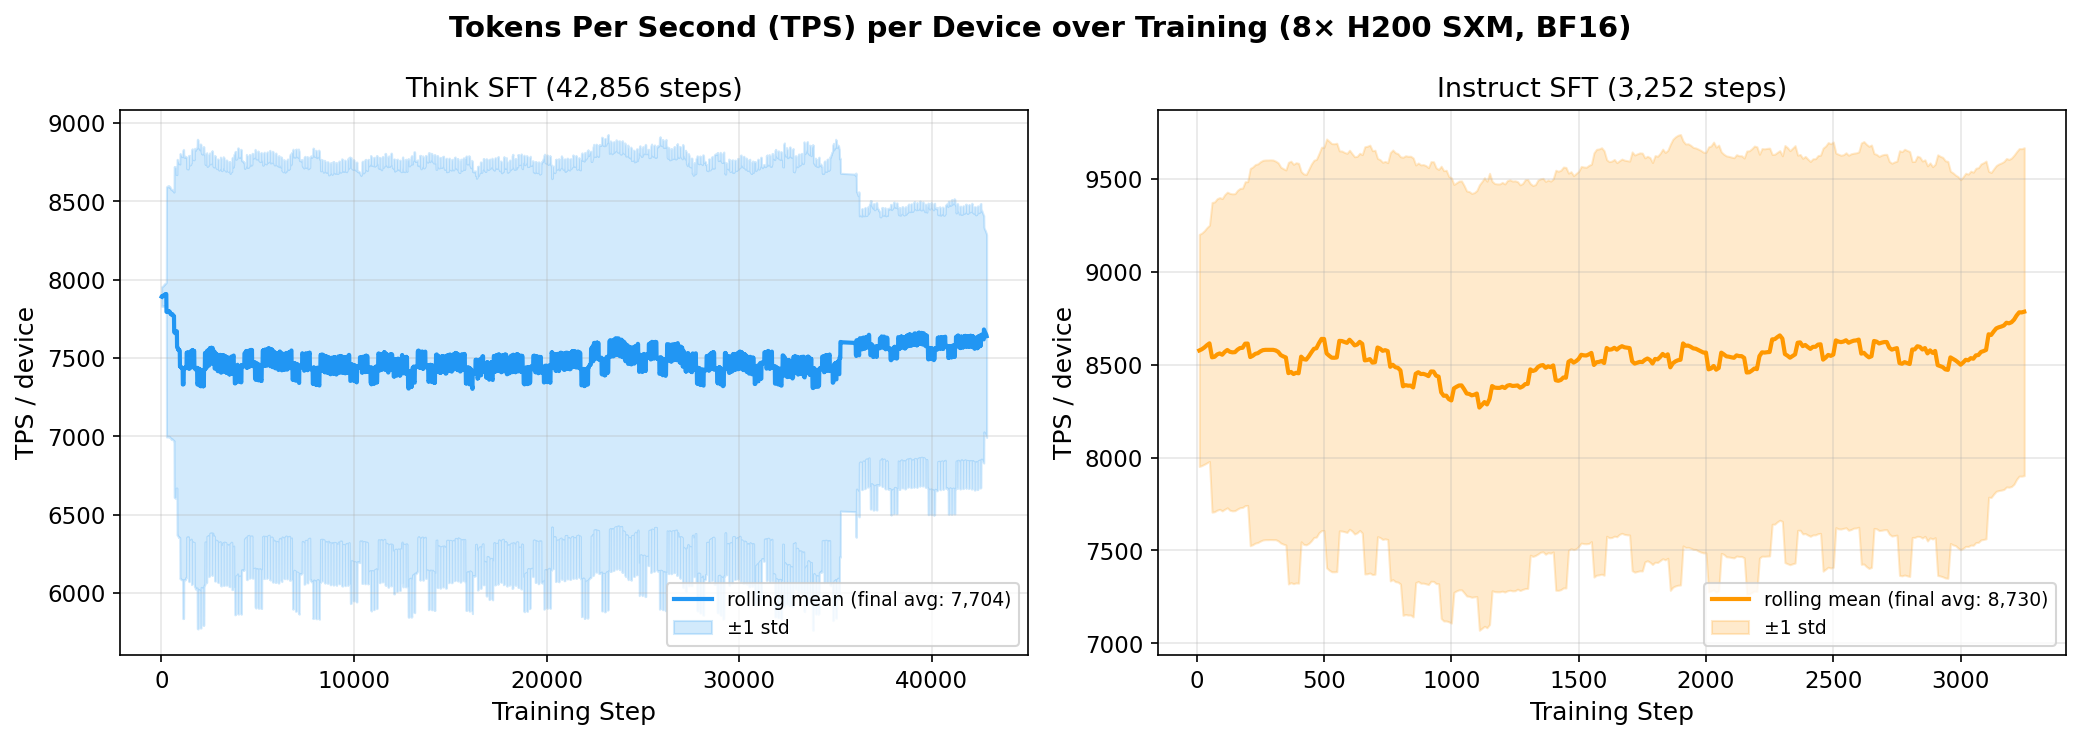
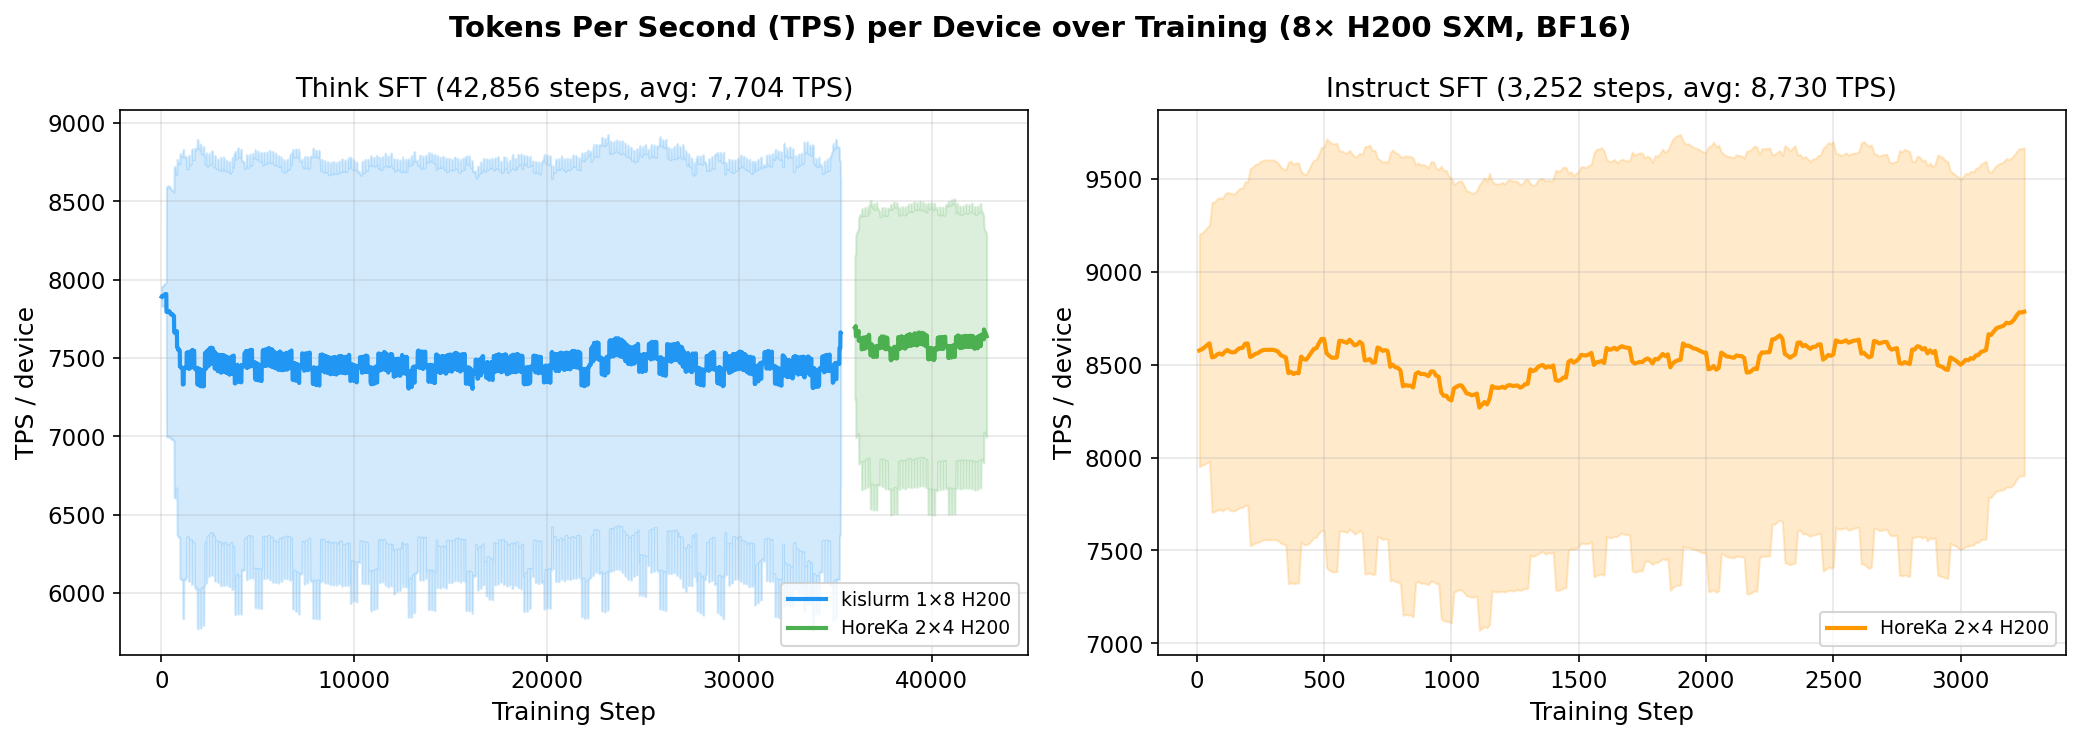
Color-code kislurm vs HoreKa segments in Think throughput plots
Think SFT plot now shows blue (kislurm 1×8 H200, steps 0-35K) and
green (HoreKa 2×4 H200, steps 36K-42.8K) to visualize the cluster
transition mid-training.

diff --git a/oellm/experiments/baseline_repro/scripts/plot_throughput.py b/oellm/experiments/baseline_repro/scripts/plot_throughput.py
@@ -256,25 +256,55 @@ def main():
         std = windows.std(axis=1)
         return mean, std
 
+    # Split Think v2 into kislurm and HoreKa segments for color-coding
+    # HoreKa data starts at step 36010
+    horeka_start = v2_think_horeka['steps'][0] if len(v2_think_horeka['steps']) > 0 else 36010
+    ki_mask = v2_think['steps'] < horeka_start
+    hk_mask = v2_think['steps'] >= horeka_start
+
+    think_ki = {k: v2_think[k][ki_mask] for k in v2_think}
+    think_hk = {k: v2_think[k][hk_mask] for k in v2_think}
+
+    COLOR_KI = '#2196F3'   # blue for kislurm
+    COLOR_HK = '#4CAF50'   # green for HoreKa
+    COLOR_INST = '#FF9800'  # orange for instruct
+
+    def plot_think_segments(ax, metric_key, avg_key):
+        """Plot Think with kislurm/HoreKa color distinction."""
+        for seg, color, label in [
+            (think_ki, COLOR_KI, f'kislurm 1×8 H200'),
+            (think_hk, COLOR_HK, f'HoreKa 2×4 H200'),
+        ]:
+            if len(seg['steps']) == 0:
+                continue
+            mean, std = rolling_stats(seg['steps'], seg[metric_key])
+            ax.plot(seg['steps'], mean, color=color, linewidth=2, label=label)
+            ax.fill_between(seg['steps'], mean - std, mean + std, color=color, alpha=0.2)
+
     # ====== Figure 1: TPS/device over steps ======
     fig, axes = plt.subplots(1, 2, figsize=(14, 5))
     fig.suptitle('Tokens Per Second (TPS) per Device over Training (8× H200 SXM, BF16)',
                  fontsize=14, fontweight='bold')
 
-    for ax, title, data, color in [
-        (axes[0], 'Think SFT (42,856 steps)', v2_think, '#2196F3'),
-        (axes[1], 'Instruct SFT (3,252 steps)', v2_instruct, '#FF9800'),
-    ]:
-        mean, std = rolling_stats(data['steps'], data['tps'])
-        ax.plot(data['steps'], mean, color=color, linewidth=2,
-                label=f"rolling mean (final avg: {data['tps_avg'][-1]:,.0f})")
-        ax.fill_between(data['steps'], mean - std, mean + std, color=color, alpha=0.2,
-                        label='±1 std')
-        ax.set_title(title)
-        ax.set_xlabel('Training Step')
-        ax.set_ylabel('TPS / device')
-        ax.legend(loc='lower right')
-        ax.grid(True, alpha=0.3)
+    # Think (left) — split by cluster
+    plot_think_segments(axes[0], 'tps', 'tps_avg')
+    axes[0].set_title(f'Think SFT (42,856 steps, avg: {v2_think["tps_avg"][-1]:,.0f} TPS)')
+    axes[0].set_xlabel('Training Step')
+    axes[0].set_ylabel('TPS / device')
+    axes[0].legend(loc='lower right')
+    axes[0].grid(True, alpha=0.3)
+
+    # Instruct (right) — all HoreKa
+    mean, std = rolling_stats(v2_instruct['steps'], v2_instruct['tps'])
+    axes[1].plot(v2_instruct['steps'], mean, color=COLOR_INST, linewidth=2,
+                 label=f"HoreKa 2×4 H200")
+    axes[1].fill_between(v2_instruct['steps'], mean - std, mean + std,
+                         color=COLOR_INST, alpha=0.2)
+    axes[1].set_title(f'Instruct SFT (3,252 steps, avg: {v2_instruct["tps_avg"][-1]:,.0f} TPS)')
+    axes[1].set_xlabel('Training Step')
+    axes[1].set_ylabel('TPS / device')
+    axes[1].legend(loc='lower right')
+    axes[1].grid(True, alpha=0.3)
 
     plt.tight_layout()
     for out_dir in [FIGURES, EVAL_FIGURES]:
@@ -287,21 +317,27 @@ def main():
     fig.suptitle('Model FLOPs Utilization (MFU) over Training (8× H200 SXM, BF16 dense = 989.5 TFLOPS)',
                  fontsize=14, fontweight='bold')
 
-    for ax, title, data, color in [
-        (axes[0], 'Think SFT (42,856 steps)', v2_think, '#2196F3'),
-        (axes[1], 'Instruct SFT (3,252 steps)', v2_instruct, '#FF9800'),
-    ]:
-        mean, std = rolling_stats(data['steps'], data['mfu'])
-        ax.plot(data['steps'], mean, color=color, linewidth=2,
-                label=f"rolling mean (final avg: {data['mfu_avg'][-1]:.1f}%)")
-        ax.fill_between(data['steps'], mean - std, mean + std, color=color, alpha=0.2,
-                        label='±1 std')
-        ax.set_title(title)
-        ax.set_xlabel('Training Step')
-        ax.set_ylabel('MFU (%)')
-        ax.legend(loc='lower right')
-        ax.grid(True, alpha=0.3)
-        ax.set_ylim(50, 100)
+    # Think (left) — split by cluster
+    plot_think_segments(axes[0], 'mfu', 'mfu_avg')
+    axes[0].set_title(f'Think SFT (42,856 steps, avg: {v2_think["mfu_avg"][-1]:.1f}%)')
+    axes[0].set_xlabel('Training Step')
+    axes[0].set_ylabel('MFU (%)')
+    axes[0].legend(loc='lower right')
+    axes[0].grid(True, alpha=0.3)
+    axes[0].set_ylim(50, 100)
+
+    # Instruct (right) — all HoreKa
+    mean, std = rolling_stats(v2_instruct['steps'], v2_instruct['mfu'])
+    axes[1].plot(v2_instruct['steps'], mean, color=COLOR_INST, linewidth=2,
+                 label=f"HoreKa 2×4 H200")
+    axes[1].fill_between(v2_instruct['steps'], mean - std, mean + std,
+                         color=COLOR_INST, alpha=0.2)
+    axes[1].set_title(f'Instruct SFT (3,252 steps, avg: {v2_instruct["mfu_avg"][-1]:.1f}%)')
+    axes[1].set_xlabel('Training Step')
+    axes[1].set_ylabel('MFU (%)')
+    axes[1].legend(loc='lower right')
+    axes[1].grid(True, alpha=0.3)
+    axes[1].set_ylim(50, 100)
 
     plt.tight_layout()
     for out_dir in [FIGURES, EVAL_FIGURES]:
